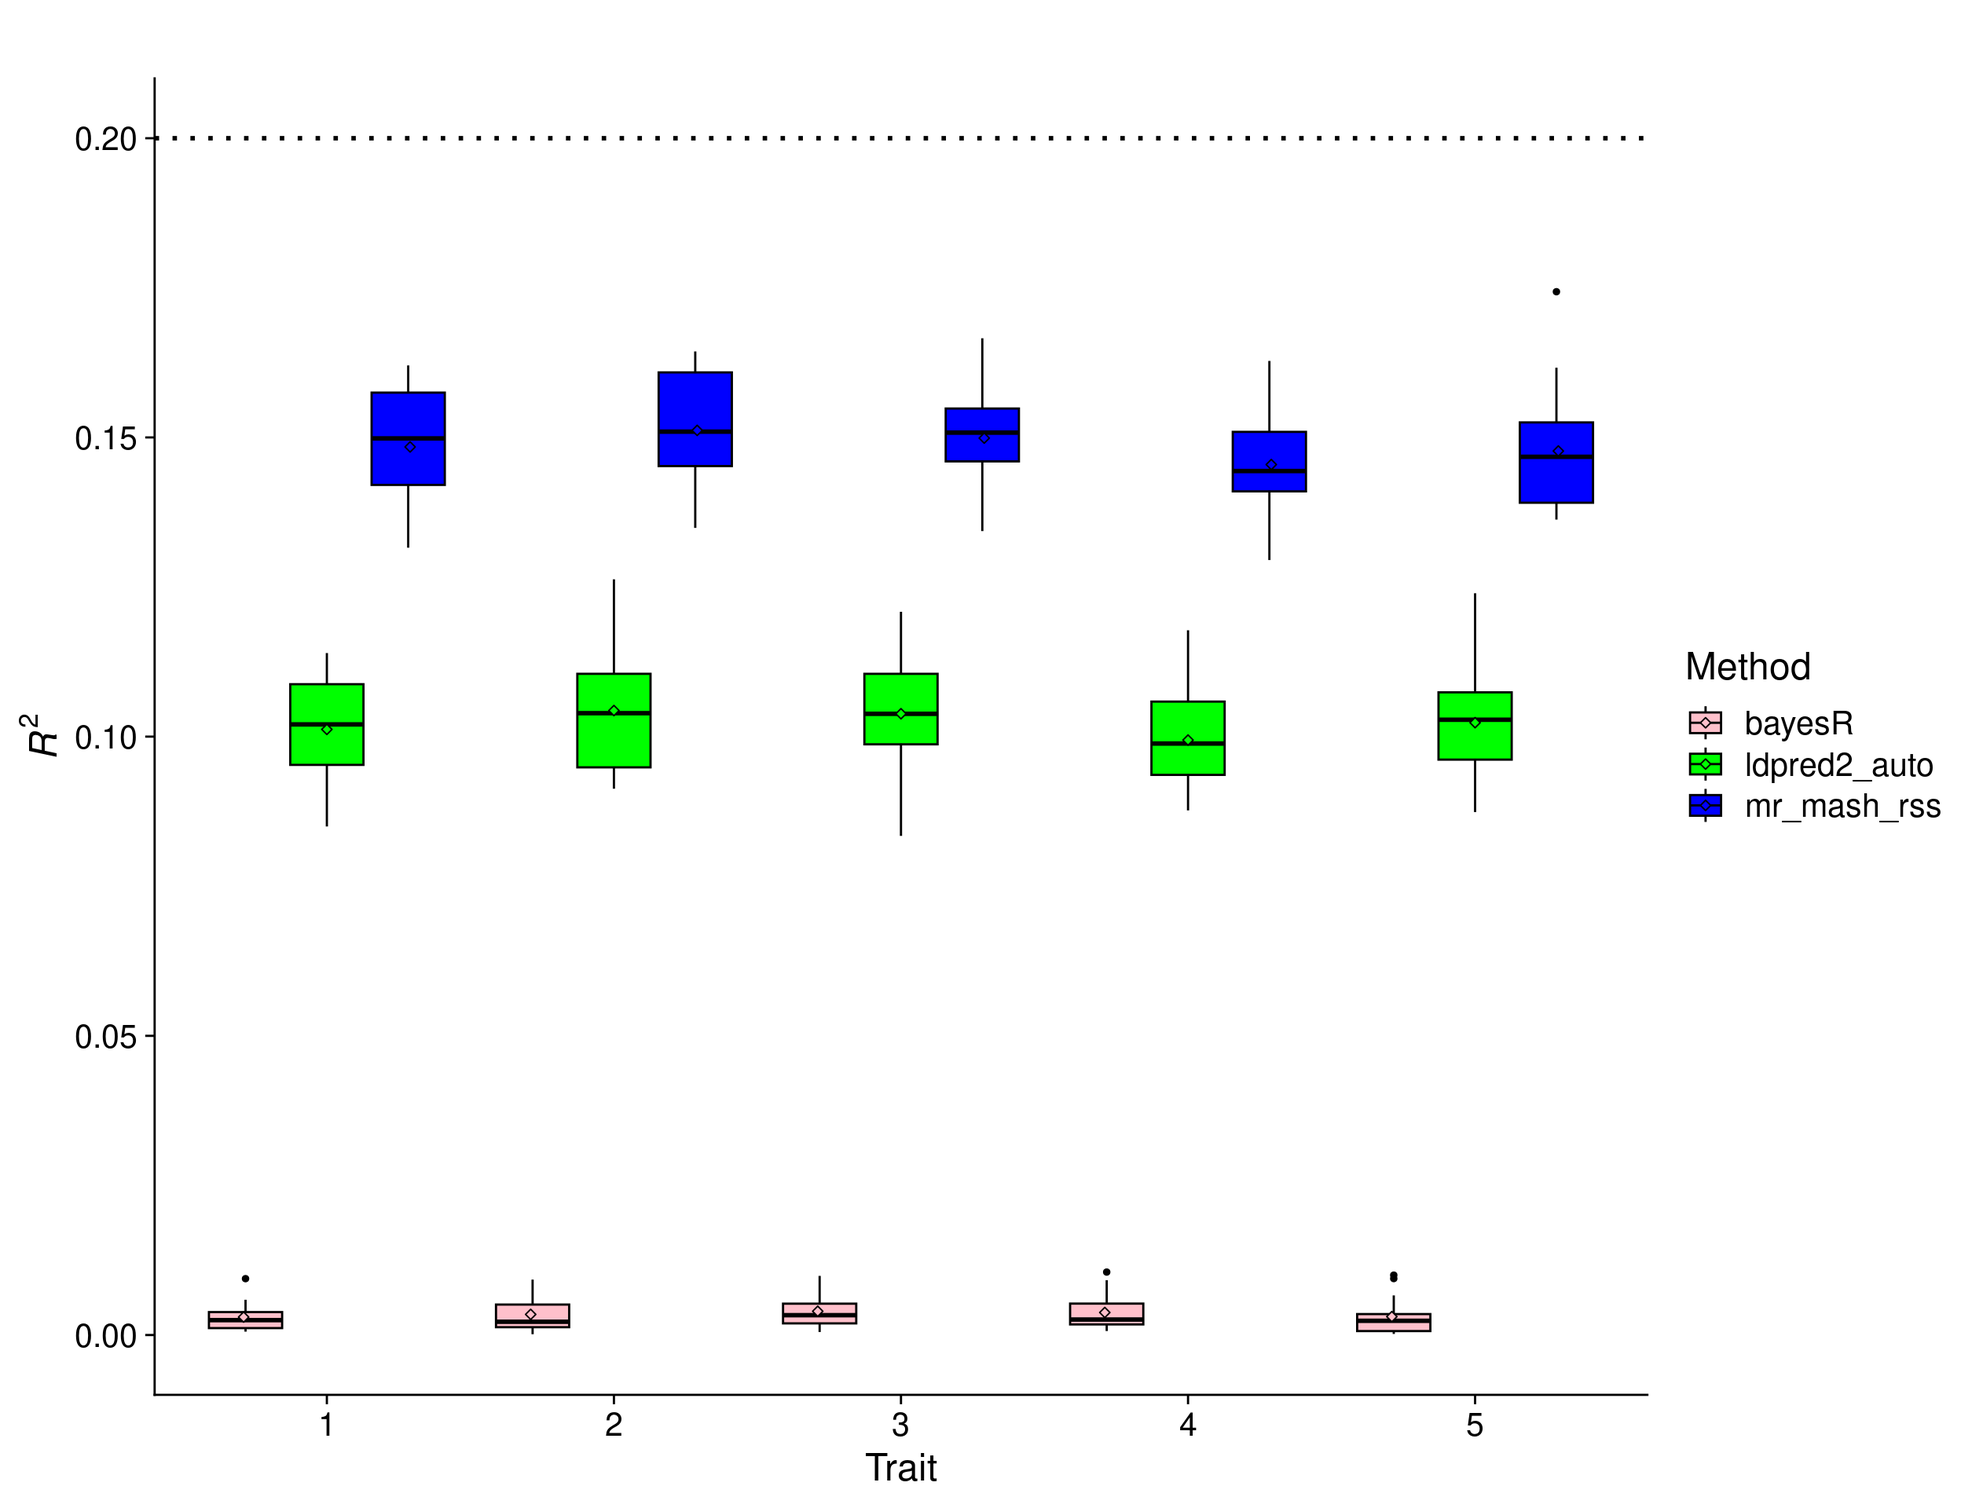
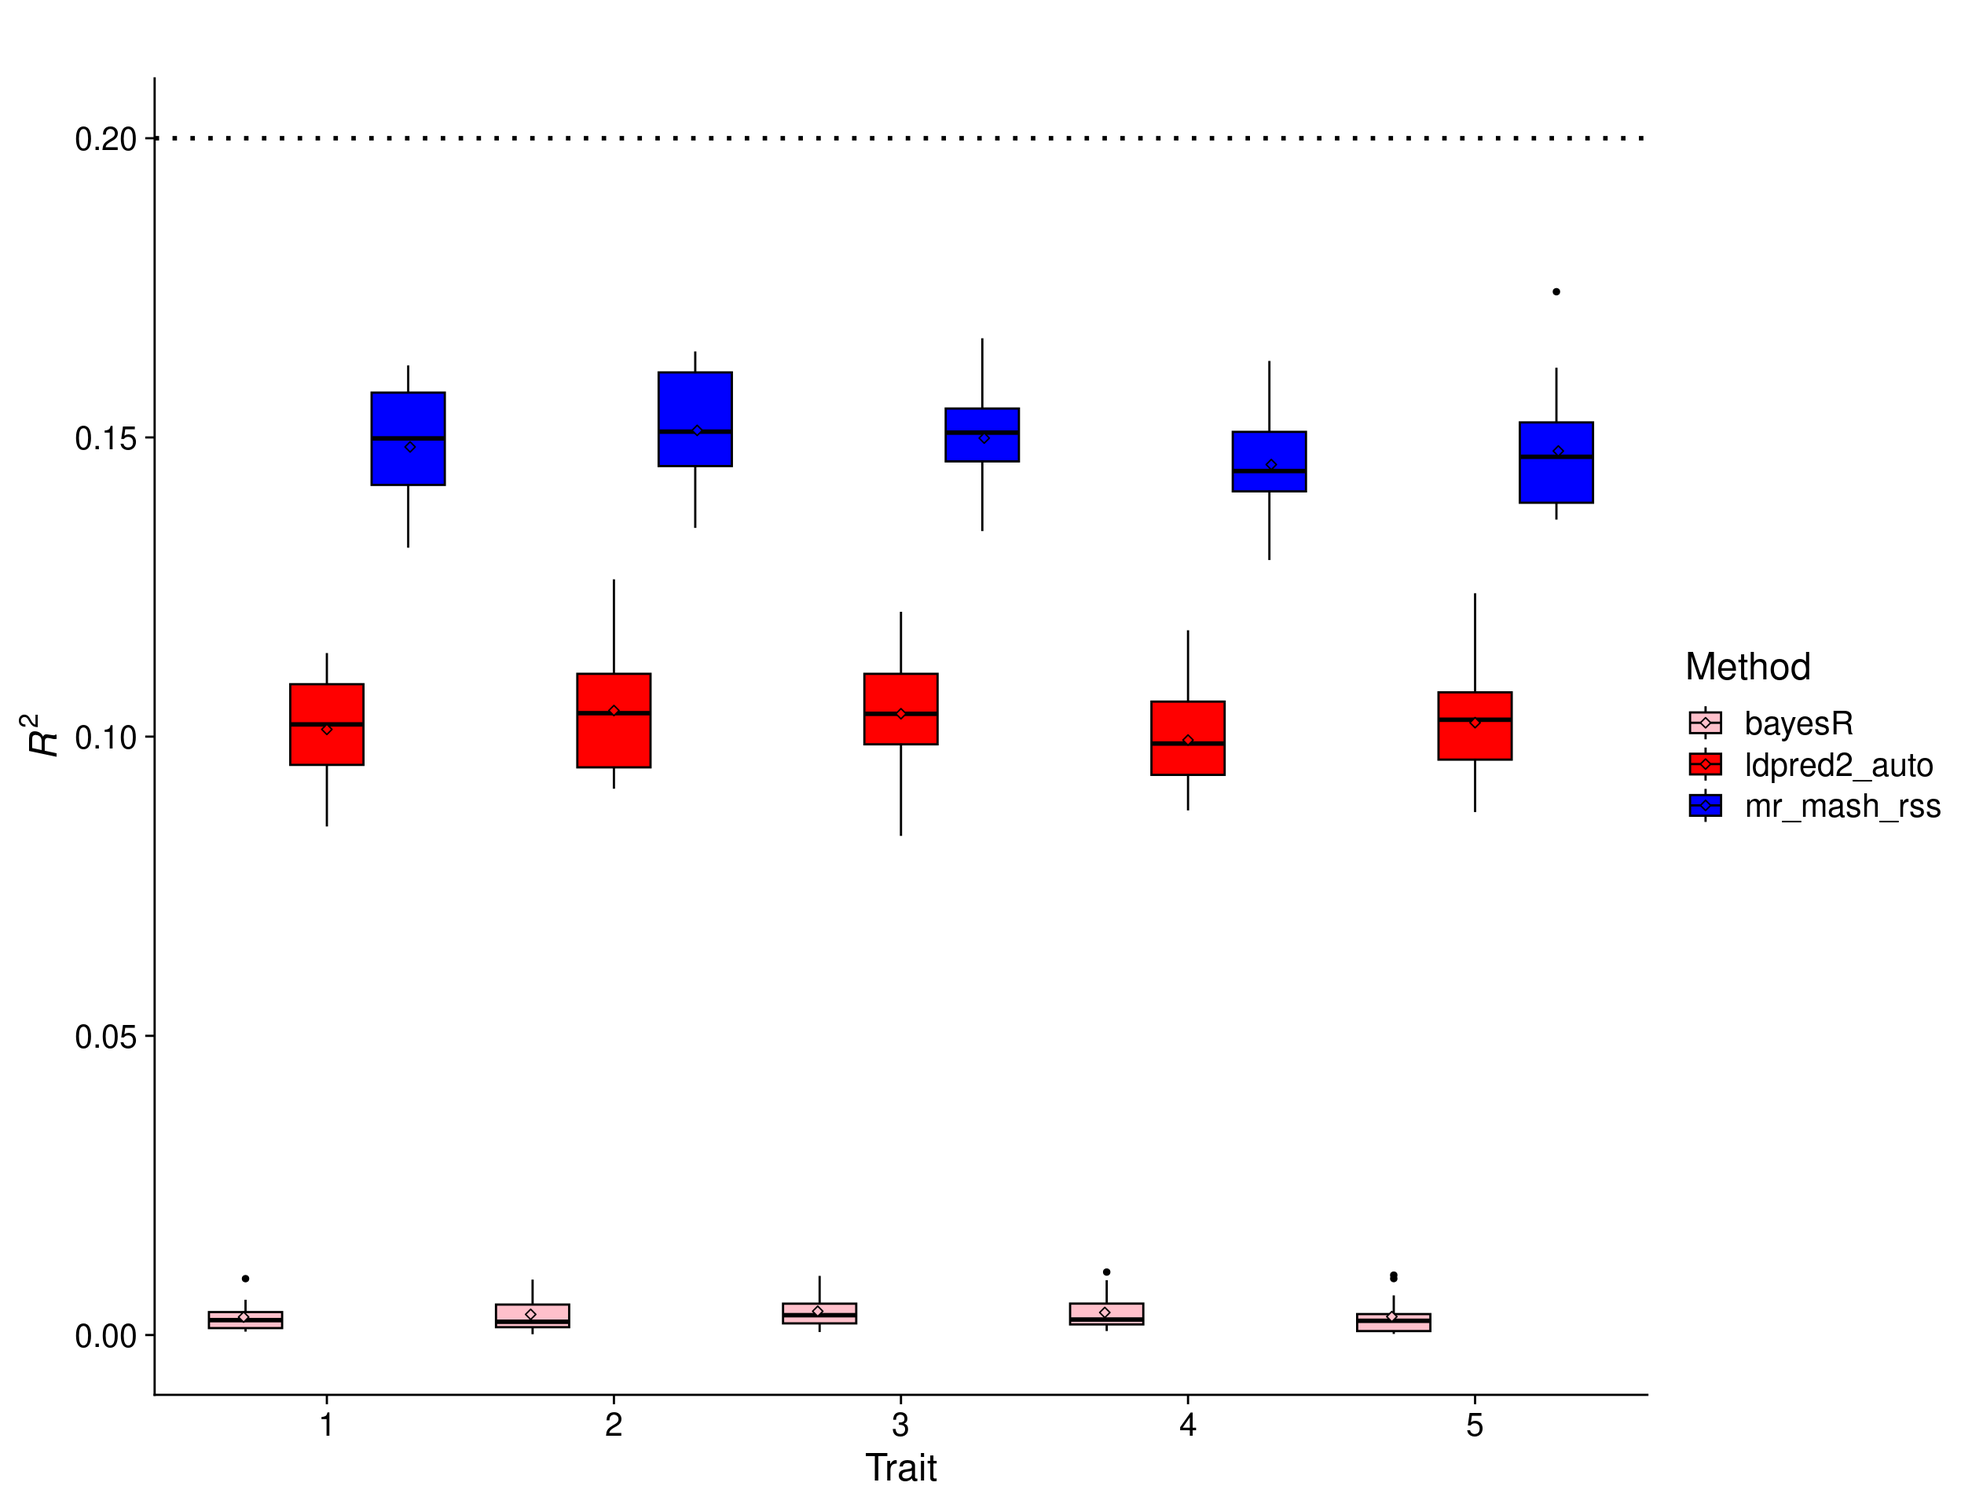
Build site.

diff --git a/docs/ukb_sim_results.html b/docs/ukb_sim_results.html
@@ -534,15 +534,15 @@ project makes it easier to run your code on other machines.</p>
 <div class="panel panel-default">
 <div class="panel-heading">
 <p class="panel-title">
-<a data-toggle="collapse" data-parent="#workflowr-checks" href="#strongRepositoryversionstrongahrefhttpsgithubcommorgantelabmrmashrssanalysistree7c91a7cda5080eff5c57c63ea7718c0ba1110ec0targetblank7c91a7ca">
+<a data-toggle="collapse" data-parent="#workflowr-checks" href="#strongRepositoryversionstrongahrefhttpsgithubcommorgantelabmrmashrssanalysistreef0e1213305b6536320eab60c094e32ca5c9f943etargetblankf0e1213a">
 <span class="glyphicon glyphicon-ok text-success"
 aria-hidden="true"></span> <strong>Repository version:</strong>
-<a href="https://github.com/morgantelab/mr_mash_rss_analysis/tree/7c91a7cda5080eff5c57c63ea7718c0ba1110ec0" target="_blank">7c91a7c</a>
+<a href="https://github.com/morgantelab/mr_mash_rss_analysis/tree/f0e1213305b6536320eab60c094e32ca5c9f943e" target="_blank">f0e1213</a>
 </a>
 </p>
 </div>
 <div
[2 lines of base64/hex data omitted]
 class="panel-collapse collapse">
 <div class="panel-body">
 <p>
@@ -552,7 +552,7 @@ reproducibility.
 </p>
 <p>
 The results in this page were generated with repository version
-<a href="https://github.com/morgantelab/mr_mash_rss_analysis/tree/7c91a7cda5080eff5c57c63ea7718c0ba1110ec0" target="_blank">7c91a7c</a>.
+<a href="https://github.com/morgantelab/mr_mash_rss_analysis/tree/f0e1213305b6536320eab60c094e32ca5c9f943e" target="_blank">f0e1213</a>.
 See the <em>Past versions</em> tab to see a history of the changes made
 to the R Markdown and HTML files.
 </p>
@@ -579,10 +579,9 @@ Untracked files:
     Untracked:  code/split_effects_by_chr_imp_ukb.R
     Untracked:  scripts/9_run_fit_ldpred2auto_by_chr_and_trait_BP_florian_LD_ukb.sbatch
     Untracked:  slurm/real_config.yaml
+    Untracked:  ukb_sim_equal_effects_50000causal_indep_resid.yaml
 
 Unstaged changes:
-    Modified:   code/fit_mrmashrss_ukb.R
-    Modified:   slurm/config.yaml
     Modified:   ukb_sim_snakefile
     Modified:   ukb_sim_snakemake_submitter.sh
 
@@ -630,6 +629,40 @@ Message
 </tr>
 </thead>
 <tbody>
+<tr>
+<td>
+Rmd
+</td>
+<td>
+<a href="https://github.com/morgantelab/mr_mash_rss_analysis/blob/f0e1213305b6536320eab60c094e32ca5c9f943e/analysis/ukb_sim_results.Rmd" target="_blank">f0e1213</a>
+</td>
+<td>
+fmorgante
+</td>
+<td>
+2023-07-31
+</td>
+<td>
+Add filtered plots
+</td>
+</tr>
+<tr>
+<td>
+html
+</td>
+<td>
+<a href="https://rawcdn.githack.com/morgantelab/mr_mash_rss_analysis/aa87dd0b27712421b64666521f6790bfc3ede37d/docs/ukb_sim_results.html" target="_blank">aa87dd0</a>
+</td>
+<td>
+fmorgante
+</td>
+<td>
+2023-07-31
+</td>
+<td>
+Build site.
+</td>
+</tr>
 <tr>
 <td>
 Rmd
@@ -1415,6 +1448,52 @@ auto</em> per-chromosome and genome-wide. Therefore, we will drop
 computationally intensive. <em>BayesR</em> gives unreasonably low
 prediction accuracy, which hints at issues with the default parameters
 and/or this particular implementation.</p>
+<pre class="r"><code>scenarioz &lt;- &quot;equal_effects_indep_resid&quot;
+methodz &lt;- c(&quot;mr_mash_rss&quot;, &quot;ldpred2_auto&quot;)
+
+i &lt;- 0
+
+n_col &lt;- 6
+n_row &lt;- length(repz) * length(scenarioz) * length(methodz) * length(traitz)
+res &lt;- as.data.frame(matrix(NA, ncol=n_col, nrow=n_row))
+colnames(res) &lt;- c(&quot;rep&quot;, &quot;scenario&quot;, &quot;method&quot;, &quot;trait&quot;, &quot;metric&quot;, &quot;score&quot;)
+
+for(sce in scenarioz){
+  for(met in methodz){
+    for(repp in repz){
+      dat &lt;- readRDS(paste0(prefix, &quot;_&quot;, sce, &quot;_&quot;, met, &quot;_pred_acc_&quot;, repp, &quot;.rds&quot;))
+      
+      for(trait in traitz){
+        i &lt;- i + 1
+        
+        res[i, 1] &lt;- repp
+        res[i, 2] &lt;- sce
+        res[i, 3] &lt;- met
+        res[i, 4] &lt;- trait
+        res[i, 5] &lt;- metric
+        res[i, 6] &lt;- dat$r2[trait]
+      }
+    }
+  }
+}
+
+res &lt;- transform(res, scenario=as.factor(scenario),
+                      method=as.factor(method),
+                      trait=as.factor(trait))
+
+p_methods_shared_filt &lt;- ggplot(res, aes(x = trait, y = score, fill = method)) +
+  geom_boxplot(color = &quot;black&quot;, outlier.size = 1, width = 0.85) +
+  stat_summary(fun=mean, geom=&quot;point&quot;, shape=23,
+               position = position_dodge2(width = 0.87,   
+                                          preserve = &quot;single&quot;)) +
+  ylim(0, 0.51) +
+  scale_fill_manual(values = c(&quot;red&quot;, &quot;blue&quot;)) +
+  labs(x = &quot;Trait&quot;, y = expression(italic(R)^2), fill=&quot;Method&quot;, title=&quot;&quot;) +
+  geom_hline(yintercept=0.5, linetype=&quot;dotted&quot;, linewidth=1, color = &quot;black&quot;) +
+  theme_cowplot(font_size = 18)
+
+print(p_methods_shared_filt)</code></pre>
+<p><img src="figure/ukb_sim_results.Rmd/equal%20effects%20filt-1.png" width="1248" style="display: block; margin: auto;" /></p>
 </div>
 <div id="mostly-null-scenario" class="section level2">
 <h2>Mostly null scenario</h2>
@@ -1547,6 +1626,52 @@ reassuringly, performs similarly to <em>LDpred2 auto</em>. Again,
 **BayesR* gives unreasonably low prediction accuracy, which hints at
 issues with the default parameters and/or this particular
 implementation.</p>
+<pre class="r"><code>scenarioz &lt;- &quot;trait_1_only_effects_indep_resid&quot;
+methodz &lt;- c(&quot;mr_mash_rss&quot;, &quot;ldpred2_auto&quot;)
+
+i &lt;- 0
+
+n_col &lt;- 6
+n_row &lt;- length(repz) * length(scenarioz) * length(methodz) * length(traitz)
+res &lt;- as.data.frame(matrix(NA, ncol=n_col, nrow=n_row))
+colnames(res) &lt;- c(&quot;rep&quot;, &quot;scenario&quot;, &quot;method&quot;, &quot;trait&quot;, &quot;metric&quot;, &quot;score&quot;)
+
+for(sce in scenarioz){
+  for(met in methodz){
+    for(repp in repz){
+      dat &lt;- readRDS(paste0(prefix, &quot;_&quot;, sce, &quot;_&quot;, met, &quot;_pred_acc_&quot;, repp, &quot;.rds&quot;))
+      
+      for(trait in traitz){
+        i &lt;- i + 1
+        
+        res[i, 1] &lt;- repp
+        res[i, 2] &lt;- sce
+        res[i, 3] &lt;- met
+        res[i, 4] &lt;- trait
+        res[i, 5] &lt;- metric
+        res[i, 6] &lt;- dat$r2[trait]
+      }
+    }
+  }
+}
+
+res &lt;- transform(res, scenario=as.factor(scenario),
+                      method=as.factor(method),
+                      trait=as.factor(trait))
+
+p_mostly_null_filt &lt;- ggplot(res, aes(x = trait, y = score, fill = method)) +
+  geom_boxplot(color = &quot;black&quot;, outlier.size = 1, width = 0.85) +
+  stat_summary(fun=mean, geom=&quot;point&quot;, shape=23,
+               position = position_dodge2(width = 0.87,   
+                                          preserve = &quot;single&quot;)) +
+  ylim(0.0, 0.51) +
+  scale_fill_manual(values = c(&quot;red&quot;, &quot;blue&quot;)) +
+  labs(x = &quot;Trait&quot;, y = expression(italic(R)^2), fill=&quot;Method&quot;, title=&quot;&quot;) +
+  geom_hline(yintercept=0.5, linetype=&quot;dotted&quot;, linewidth=1, color = &quot;black&quot;) +
+  theme_cowplot(font_size = 18)
+
+print(p_mostly_null_filt)</code></pre>
+<p><img src="figure/ukb_sim_results.Rmd/mostly%20null%20filt-1.png" width="1248" style="display: block; margin: auto;" /></p>
 </div>
 <div id="shared-in-subgroups-scenario" class="section level2">
 <h2>Shared in subgroups scenario</h2>
@@ -1601,7 +1726,7 @@ p_blocks_shared &lt;- ggplot(res, aes(x = trait, y = score, fill = method)) +
                position = position_dodge2(width = 0.87,   
                                           preserve = &quot;single&quot;)) +
   ylim(0, 0.51) +
-  scale_fill_manual(values = c(&quot;pink&quot;, &quot;green&quot;, &quot;blue&quot;)) +
+  scale_fill_manual(values = c(&quot;pink&quot;, &quot;red&quot;, &quot;blue&quot;)) +
   labs(x = &quot;Trait&quot;, y = expression(italic(R)^2), fill=&quot;Method&quot;, title=&quot;&quot;) +
   geom_hline(yintercept=0.5, linetype=&quot;dotted&quot;, linewidth=1, color = &quot;black&quot;) +
   geom_hline(yintercept=0.3, linetype=&quot;dashed&quot;, linewidth=1, color = &quot;black&quot;) +
@@ -1700,6 +1825,53 @@ effects, and the smaller <span class="math inline">\(h^2_g\)</span>
 (harder scenario for univariate methods). Again, <em>BayesR</em> gives
 unreasonably low prediction accuracy, which hints at issues with the
 default parameters and/or this particular implementation.</p>
+<pre class="r"><code>scenarioz &lt;- &quot;blocks_shared_effects_indep_resid&quot;
+methodz &lt;- c(&quot;mr_mash_rss&quot;, &quot;ldpred2_auto&quot;)
+
+i &lt;- 0
+
+n_col &lt;- 6
+n_row &lt;- length(repz) * length(scenarioz) * length(methodz) * length(traitz)
+res &lt;- as.data.frame(matrix(NA, ncol=n_col, nrow=n_row))
+colnames(res) &lt;- c(&quot;rep&quot;, &quot;scenario&quot;, &quot;method&quot;, &quot;trait&quot;, &quot;metric&quot;, &quot;score&quot;)
+
+for(sce in scenarioz){
+  for(met in methodz){
+    for(repp in repz){
+      dat &lt;- readRDS(paste0(prefix, &quot;_&quot;, sce, &quot;_&quot;, met, &quot;_pred_acc_&quot;, repp, &quot;.rds&quot;))
+      
+      for(trait in traitz){
+        i &lt;- i + 1
+        
+        res[i, 1] &lt;- repp
+        res[i, 2] &lt;- sce
+        res[i, 3] &lt;- met
+        res[i, 4] &lt;- trait
+        res[i, 5] &lt;- metric
+        res[i, 6] &lt;- dat$r2[trait]
+      }
+    }
+  }
+}
+
+res &lt;- transform(res, scenario=as.factor(scenario),
+                      method=as.factor(method),
+                      trait=as.factor(trait))
+
+p_blocks_shared_filt &lt;- ggplot(res, aes(x = trait, y = score, fill = method)) +
+  geom_boxplot(color = &quot;black&quot;, outlier.size = 1, width = 0.85) +
+  stat_summary(fun=mean, geom=&quot;point&quot;, shape=23,
+               position = position_dodge2(width = 0.87,   
+                                          preserve = &quot;single&quot;)) +
+  ylim(0, 0.51) +
+  scale_fill_manual(values = c(&quot;red&quot;, &quot;blue&quot;)) +
+  labs(x = &quot;Trait&quot;, y = expression(italic(R)^2), fill=&quot;Method&quot;, title=&quot;&quot;) +
+  geom_hline(yintercept=0.5, linetype=&quot;dotted&quot;, linewidth=1, color = &quot;black&quot;) +
+  geom_hline(yintercept=0.3, linetype=&quot;dashed&quot;, linewidth=1, color = &quot;black&quot;) +
+  theme_cowplot(font_size = 18)
+
+print(p_blocks_shared_filt)</code></pre>
+<p><img src="figure/ukb_sim_results.Rmd/shared%20in%20subgroups%20filt-1.png" width="1248" style="display: block; margin: auto;" /></p>
 </div>
 <div id="equal-effects-scenario-low-pve" class="section level2">
 <h2>Equal effects scenario – low PVE</h2>
@@ -1748,7 +1920,7 @@ p_methods_shared_lowpve &lt;- ggplot(res, aes(x = trait, y = score, fill = metho
                position = position_dodge2(width = 0.87,   
                                           preserve = &quot;single&quot;)) +
   ylim(0, 0.2) +
-  scale_fill_manual(values = c(&quot;pink&quot;, &quot;green&quot;, &quot;blue&quot;)) +
+  scale_fill_manual(values = c(&quot;pink&quot;, &quot;red&quot;, &quot;blue&quot;)) +
   labs(x = &quot;Trait&quot;, y = expression(italic(R)^2), fill=&quot;Method&quot;, title=&quot;&quot;) +
   geom_hline(yintercept=0.2, linetype=&quot;dotted&quot;, linewidth=1, color = &quot;black&quot;) +
   theme_cowplot(font_size = 18)
@@ -1802,6 +1974,52 @@ that <em>mr.mash.rss</em> clearly does better than <em>LDpred2
 auto</em>. Again, <em>BayesR</em> gives unreasonably low prediction
 accuracy, which hints at issues with the default parameters and/or this
 particular implementation.</p>
+<pre class="r"><code>scenarioz &lt;- &quot;equal_effects_low_pve_indep_resid&quot;
+methodz &lt;- c(&quot;mr_mash_rss&quot;, &quot;ldpred2_auto&quot;)
+
+i &lt;- 0
+
+n_col &lt;- 6
+n_row &lt;- length(repz) * length(scenarioz) * length(methodz) * length(traitz)
+res &lt;- as.data.frame(matrix(NA, ncol=n_col, nrow=n_row))
+colnames(res) &lt;- c(&quot;rep&quot;, &quot;scenario&quot;, &quot;method&quot;, &quot;trait&quot;, &quot;metric&quot;, &quot;score&quot;)
+
+for(sce in scenarioz){
+  for(met in methodz){
+    for(repp in repz){
+      dat &lt;- readRDS(paste0(prefix, &quot;_&quot;, sce, &quot;_&quot;, met, &quot;_pred_acc_&quot;, repp, &quot;.rds&quot;))
+      
+      for(trait in traitz){
+        i &lt;- i + 1
+        
+        res[i, 1] &lt;- repp
+        res[i, 2] &lt;- sce
+        res[i, 3] &lt;- met
+        res[i, 4] &lt;- trait
+        res[i, 5] &lt;- metric
+        res[i, 6] &lt;- dat$r2[trait]
+      }
+    }
+  }
+}
+
+res &lt;- transform(res, scenario=as.factor(scenario),
+                      method=as.factor(method),
+                      trait=as.factor(trait))
+
+p_methods_shared_lowpve_filt &lt;- ggplot(res, aes(x = trait, y = score, fill = method)) +
+  geom_boxplot(color = &quot;black&quot;, outlier.size = 1, width = 0.85) +
+  stat_summary(fun=mean, geom=&quot;point&quot;, shape=23,
+               position = position_dodge2(width = 0.87,   
+                                          preserve = &quot;single&quot;)) +
+  ylim(0, 0.2) +
+  scale_fill_manual(values = c(&quot;red&quot;, &quot;blue&quot;)) +
+  labs(x = &quot;Trait&quot;, y = expression(italic(R)^2), fill=&quot;Method&quot;, title=&quot;&quot;) +
+  geom_hline(yintercept=0.2, linetype=&quot;dotted&quot;, linewidth=1, color = &quot;black&quot;) +
+  theme_cowplot(font_size = 18)
+
+print(p_methods_shared_lowpve_filt)</code></pre>
+<p><img src="figure/ukb_sim_results.Rmd/equal%20effects%20low%20pve%20filt-1.png" width="1248" style="display: block; margin: auto;" /></p>
 </div>
 <div id="equal-effects-scenario-10-traits" class="section level2">
 <h2>Equal effects scenario – 10 traits</h2>
@@ -1852,7 +2070,7 @@ p_methods_shared_10traits &lt;- ggplot(res, aes(x = trait, y = score, fill = met
                position = position_dodge2(width = 0.87,   
                                           preserve = &quot;single&quot;)) +
   ylim(0, 0.51) +
-  scale_fill_manual(values = c(&quot;pink&quot;, &quot;green&quot;, &quot;blue&quot;)) +
+  scale_fill_manual(values = c(&quot;pink&quot;, &quot;red&quot;, &quot;blue&quot;)) +
   labs(x = &quot;Trait&quot;, y = expression(italic(R)^2), fill=&quot;Method&quot;, title=&quot;&quot;) +
   geom_hline(yintercept=0.5, linetype=&quot;dotted&quot;, linewidth=1, color = &quot;black&quot;) +
   theme_cowplot(font_size = 18)
@@ -1908,6 +2126,55 @@ class="math inline">\(mean(\frac{mr.mash.rss R^2}{LDpred2 auto R^2}) =
 R^2}{LDpred2 auto R^2}) = 1.1057\)</span>). Again, <em>BayesR</em> gives
 unreasonably low prediction accuracy, which hints at issues with the
 default parameters and/or this particular implementation.</p>
+<pre class="r"><code>scenarioz &lt;- &quot;equal_effects_10traits_indep_resid&quot;
+methodz &lt;- c(&quot;mr_mash_rss&quot;, &quot;ldpred2_auto&quot;)
+
+i &lt;- 0
+
+traitz &lt;- 1:10
+repz &lt;- c(1:10, 12:20)
+
+n_col &lt;- 6
+n_row &lt;- length(repz) * length(scenarioz) * length(methodz) * length(traitz)
+res &lt;- as.data.frame(matrix(NA, ncol=n_col, nrow=n_row))
+colnames(res) &lt;- c(&quot;rep&quot;, &quot;scenario&quot;, &quot;method&quot;, &quot;trait&quot;, &quot;metric&quot;, &quot;score&quot;)
+
+for(sce in scenarioz){
+  for(met in methodz){
+    for(repp in repz){
+      dat &lt;- readRDS(paste0(prefix, &quot;_&quot;, sce, &quot;_&quot;, met, &quot;_pred_acc_&quot;, repp, &quot;.rds&quot;))
+      
+      for(trait in traitz){
+        i &lt;- i + 1
+        
+        res[i, 1] &lt;- repp
+        res[i, 2] &lt;- sce
+        res[i, 3] &lt;- met
+        res[i, 4] &lt;- trait
+        res[i, 5] &lt;- metric
+        res[i, 6] &lt;- dat$r2[trait]
+      }
+    }
+  }
+}
+
+res &lt;- transform(res, scenario=as.factor(scenario),
+                      method=as.factor(method),
+                      trait=as.factor(trait))
+
+p_methods_shared_10traits_filt &lt;- ggplot(res, aes(x = trait, y = score, fill = method)) +
+  geom_boxplot(color = &quot;black&quot;, outlier.size = 1, width = 0.85) +
+  stat_summary(fun=mean, geom=&quot;point&quot;, shape=23,
+               position = position_dodge2(width = 0.87,   
+                                          preserve = &quot;single&quot;)) +
+  ylim(0, 0.51) +
+  scale_fill_manual(values = c(&quot;red&quot;, &quot;blue&quot;)) +
+  labs(x = &quot;Trait&quot;, y = expression(italic(R)^2), fill=&quot;Method&quot;, title=&quot;&quot;) +
+  geom_hline(yintercept=0.5, linetype=&quot;dotted&quot;, linewidth=1, color = &quot;black&quot;) +
+  theme_cowplot(font_size = 18)
+
+print(p_methods_shared_10traits_filt)</code></pre>
+<p><img src="figure/ukb_sim_results.Rmd/equal%20effects%2010%20traits%20filt-1.png" width="1248" style="display: block; margin: auto;" /></p>
 <br>
 <p>
 <button type="button" class="btn btn-default btn-workflowr btn-workflowr-sessioninfo" data-toggle="collapse" data-target="#workflowr-sessioninfo" style="display: block;">
